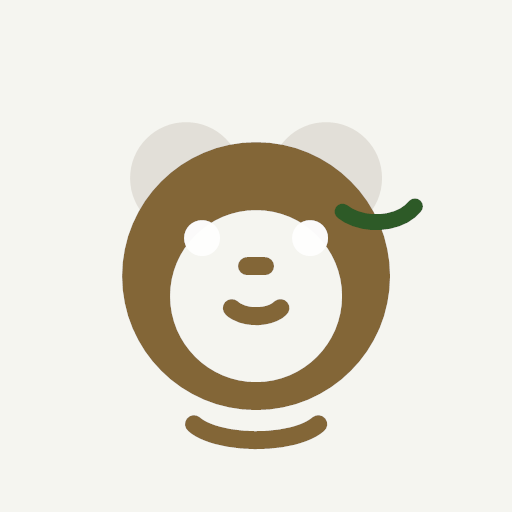
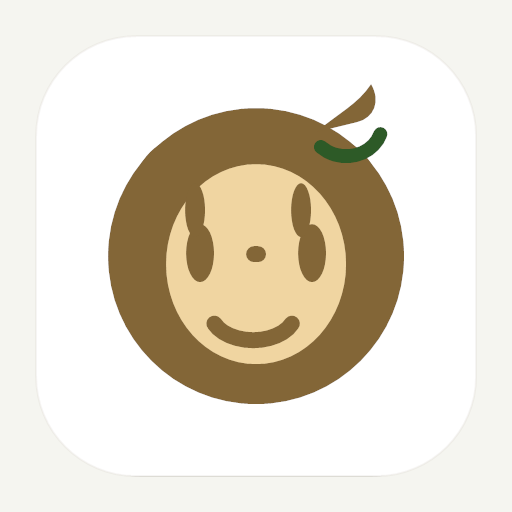
Update MONA brand assets and component refinements

diff --git a/src/components/MonaMark.tsx b/src/components/MonaMark.tsx
@@ -1,4 +1,4 @@
-import React from 'react';
+import React, { useId } from 'react';
 
 interface MonaMarkProps {
   size?: number;
@@ -6,48 +6,46 @@ interface MonaMarkProps {
 }
 
 export const MonaMark: React.FC<MonaMarkProps> = ({ size = 24, className }) => {
+  const shadowId = useId().replace(/:/g, '');
   return (
     <svg
-      viewBox="0 0 48 48"
+      viewBox="0 0 64 64"
       width={size}
       height={size}
       aria-hidden="true"
       className={className}
       fill="none"
     >
-      <circle cx="14" cy="15" r="5.5" fill="#836637" opacity="0.22" />
-      <circle cx="34" cy="15" r="5.5" fill="#836637" opacity="0.22" />
-      <circle cx="24" cy="25" r="13.5" fill="#836637" />
-      <circle cx="24" cy="27" r="8.8" fill="#F5F5F0" opacity="0.96" />
-      <circle cx="18.3" cy="22" r="1.8" fill="#F5F5F0" />
-      <circle cx="29.7" cy="22" r="1.8" fill="#F5F5F0" />
+      <defs>
+        <filter id={`mona-shadow-${shadowId}`} x="-20%" y="-20%" width="140%" height="140%">
+          <feDropShadow dx="0" dy="1" stdDeviation="1.5" floodColor="#000000" floodOpacity="0.16" />
+        </filter>
+      </defs>
+
+      <rect x="2" y="2" width="60" height="60" rx="18" fill="#F7F4EC" filter={`url(#mona-shadow-${shadowId})`} />
+
+      <circle cx="19" cy="26" r="7.5" fill="#836637" />
+      <circle cx="45" cy="26" r="7.5" fill="#836637" />
+      <circle cx="19" cy="26" r="4.8" fill="#F0D5A1" />
+      <circle cx="45" cy="26" r="4.8" fill="#F0D5A1" />
+
       <path
-        d="M21.6 28.4c1 1.1 2.2 1.7 2.4 1.7s1.4-.6 2.4-1.7"
-        stroke="#836637"
-        strokeWidth="1.8"
-        strokeLinecap="round"
-        strokeLinejoin="round"
+        d="M32 13c11.5 0 20.8 9.3 20.8 20.8 0 9.3-4.9 16.5-12.7 20.5-2.2 1.1-5.2 1.7-8.1 1.7s-5.9-.6-8.1-1.7C16.1 50.3 11.2 43.1 11.2 33.8 11.2 22.3 20.5 13 32 13Z"
+        fill="#836637"
       />
+
       <path
-        d="M23.3 25.4h1.4"
-        stroke="#836637"
-        strokeWidth="1.8"
-        strokeLinecap="round"
+        d="M20.5 31.5c0-6.5 5.1-11.8 11.5-11.8s11.5 5.3 11.5 11.8c0 9.2-6.4 17.4-11.5 17.4s-11.5-8.2-11.5-17.4Z"
+        fill="#F0D5A1"
       />
-      <path
-        d="M12.4 34.2c2.7 3 6.4 4.8 11.6 4.8s8.9-1.8 11.6-4.8"
-        stroke="#836637"
-        strokeOpacity="0.55"
-        strokeWidth="2"
-        strokeLinecap="round"
-      />
-      <path
-        d="M30.8 12.8c2.4.4 4.2 1.7 5.1 3.6"
-        stroke="#2D5A27"
-        strokeOpacity="0.55"
-        strokeWidth="1.6"
-        strokeLinecap="round"
-      />
+
+      <rect x="22.7" y="26.2" width="4.8" height="10.2" rx="2.4" fill="#836637" />
+      <rect x="36.5" y="26.2" width="4.8" height="10.2" rx="2.4" fill="#836637" />
+
+      <path d="M28.2 38.5c1.2 1.3 2.8 2.1 3.8 2.1s2.6-.8 3.8-2.1" stroke="#836637" strokeWidth="2.4" strokeLinecap="round" strokeLinejoin="round" />
+      <path d="M31.9 34.4h.2" stroke="#836637" strokeWidth="2.6" strokeLinecap="round" />
+      <path d="M21.7 44.7c2.5 2.7 5.9 4.2 10.3 4.2s7.8-1.5 10.3-4.2" stroke="#836637" strokeWidth="2.4" strokeLinecap="round" opacity="0.65" />
+      <path d="M39.8 14.7c2.5.5 4.5 2 5.6 4.1" stroke="#2D5A27" strokeWidth="2" strokeLinecap="round" opacity="0.85" />
     </svg>
   );
 };

diff --git a/src/App.tsx b/src/App.tsx
@@ -21,7 +21,6 @@ import { RecentActivityCard } from './components/RecentActivityCard';
 import { Wheels } from './components/Wheels';
 import { DesktopTabs, MobileBottomNav, WheelBubble, Sidebar, TABS, TabId } from './components/TabBar';
 import { DashboardSkeleton } from './components/Skeleton';
-import { MonaMark } from './components/MonaMark';
 import { motion, AnimatePresence, useReducedMotion } from 'motion/react';
 import { format } from 'date-fns';
 import { es } from 'date-fns/locale';
@@ -40,6 +39,22 @@ function readTabFromHash(): TabId {
   if (typeof window === 'undefined') return 'overview';
   const raw = window.location.hash.replace(/^#\/?/, '');
   return (VALID_TABS as string[]).includes(raw) ? (raw as TabId) : 'overview';
+}
+
+function getGreetingName(user: { displayName?: string | null; email?: string | null } | null): string {
+  const displayName = user?.displayName?.trim();
+  if (displayName) return displayName;
+
+  const email = user?.email?.trim();
+  if (!email) return 'Usuario';
+
+  const localPart = email.split('@')[0].replace(/[._-]+/g, ' ').trim();
+  if (!localPart) return 'Usuario';
+
+  return localPart
+    .split(/\s+/)
+    .map((part) => part.charAt(0).toUpperCase() + part.slice(1))
+    .join(' ');
 }
 
 function AppContent() {
@@ -70,6 +85,7 @@ function AppContent() {
   const weekday = format(today, 'EEEE', { locale: es });
   const dateStr = format(today, "d 'de' MMMM", { locale: es });
   const sectionLabel = TABS.find((t) => t.id === tab)?.label ?? '';
+  const greetingName = getGreetingName(user);
 
   const sectionTransition = reduceMotion
     ? { duration: 0 }
@@ -88,7 +104,7 @@ function AppContent() {
                 {weekday}, {dateStr} de {today.getFullYear()}
               </p>
               <h1 className="text-2xl sm:text-3xl font-bold tracking-tight text-emerald-900">
-                Hola, José
+                Hola, {greetingName}
               </h1>
             </div>
 

diff --git a/src/components/TabBar.tsx b/src/components/TabBar.tsx
@@ -10,6 +10,7 @@ import {
   LucideIcon,
 } from 'lucide-react';
 import { cn } from '../utils';
+import { MonaMark } from './MonaMark';
 
 export type TabId =
   | 'overview'
@@ -66,8 +67,8 @@ interface TabBarProps {
 export const Sidebar: React.FC<TabBarProps> = ({ active, onChange }) => (
   <aside className="hidden sm:flex flex-col w-64 h-screen sticky top-0 bg-white border-r border-zinc-200/50 p-6">
     <div className="flex items-center gap-3 mb-10">
-      <div className="w-10 h-10 bg-white border border-zinc-200/70 rounded-xl flex items-center justify-center shadow-sm shrink-0">
-        <img src="/logo.png" alt="MONA" className="w-7 h-7" onError={(e) => (e.currentTarget.src = 'https://api.dicebear.com/7.x/bottts/svg?seed=mona')} />
+      <div className="w-10 h-10 bg-white border border-zinc-200/70 rounded-xl flex items-center justify-center shadow-sm shrink-0 overflow-hidden">
+        <MonaMark size={40} />
       </div>
       <h1 className="text-xl font-bold tracking-tight text-[#836637]">MONA</h1>
     </div>

diff --git a/src/components/Settings.tsx b/src/components/Settings.tsx
@@ -1,6 +1,6 @@
 import React, { useState } from 'react';
 import { useFinance } from '../context/FinanceContext';
-import { LogOut, Cloud, Tag, Coins, ChevronRight, Check } from 'lucide-react';
+import { LogOut, Cloud, Tag, Coins, ChevronRight, Check, TrendingUp, Repeat } from 'lucide-react';
 import { cn } from '../utils';
 import { CategoryManager } from './CategoryManager';
 import { BudgetsEditor } from './BudgetsEditor';